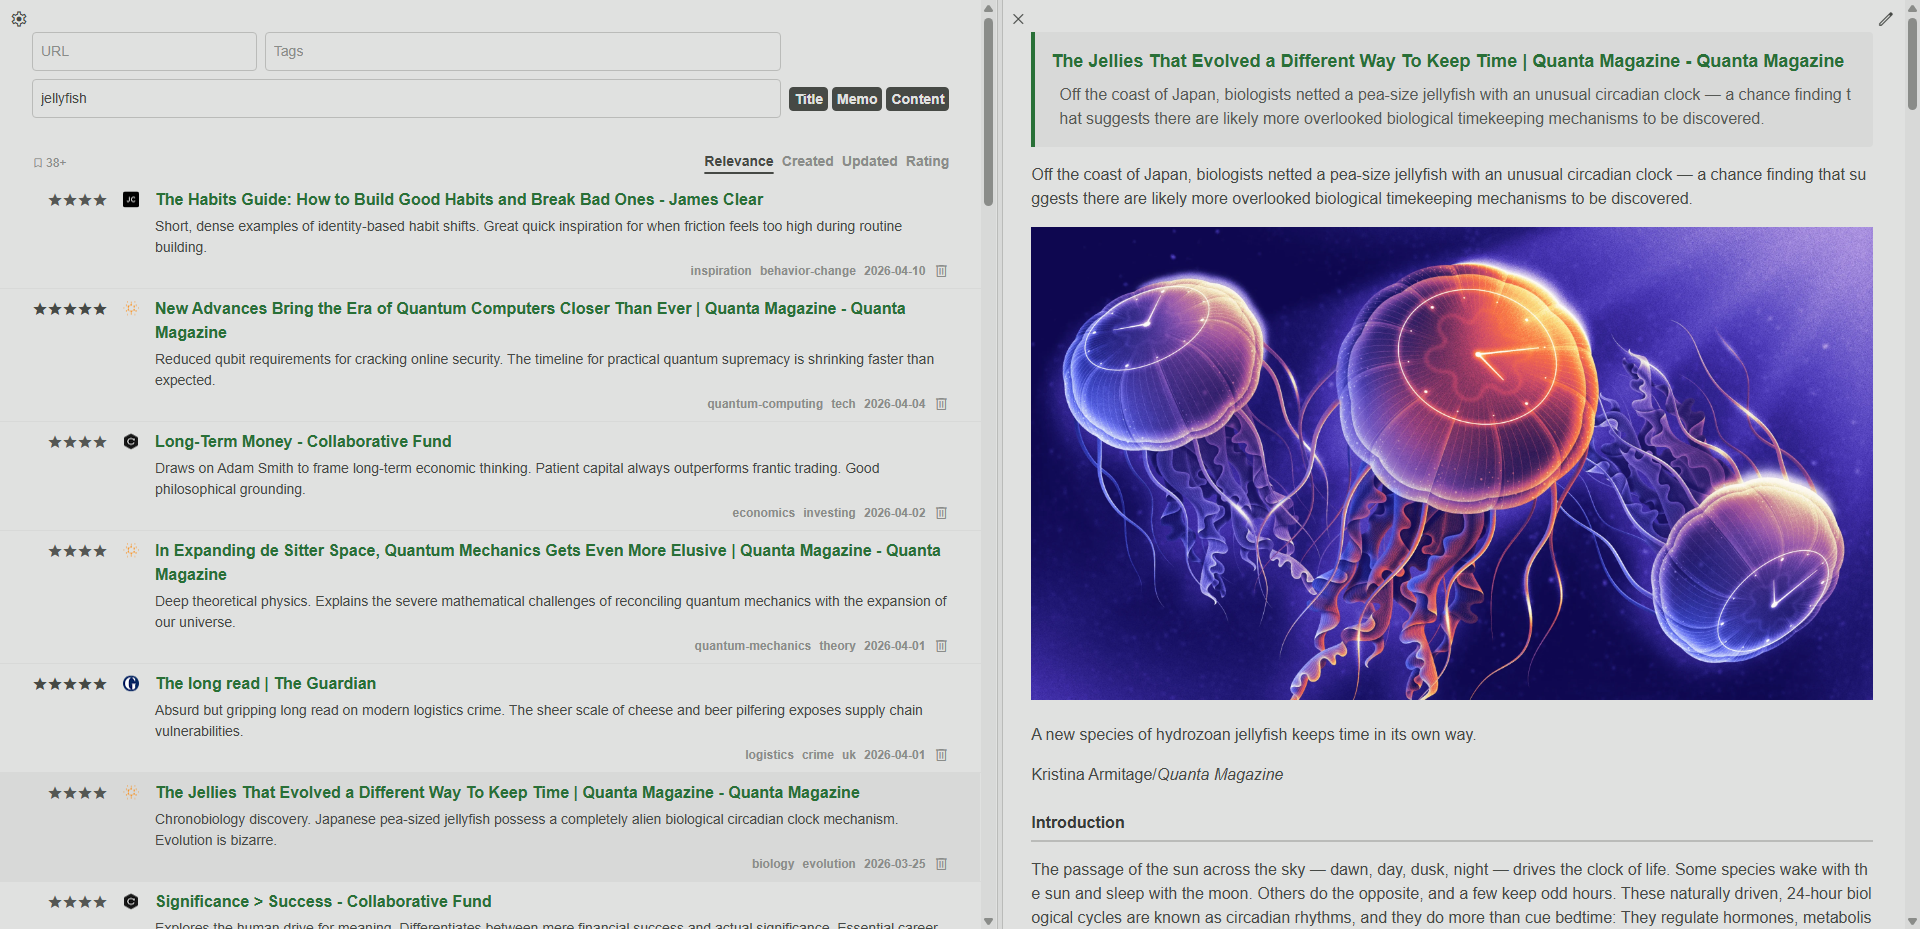
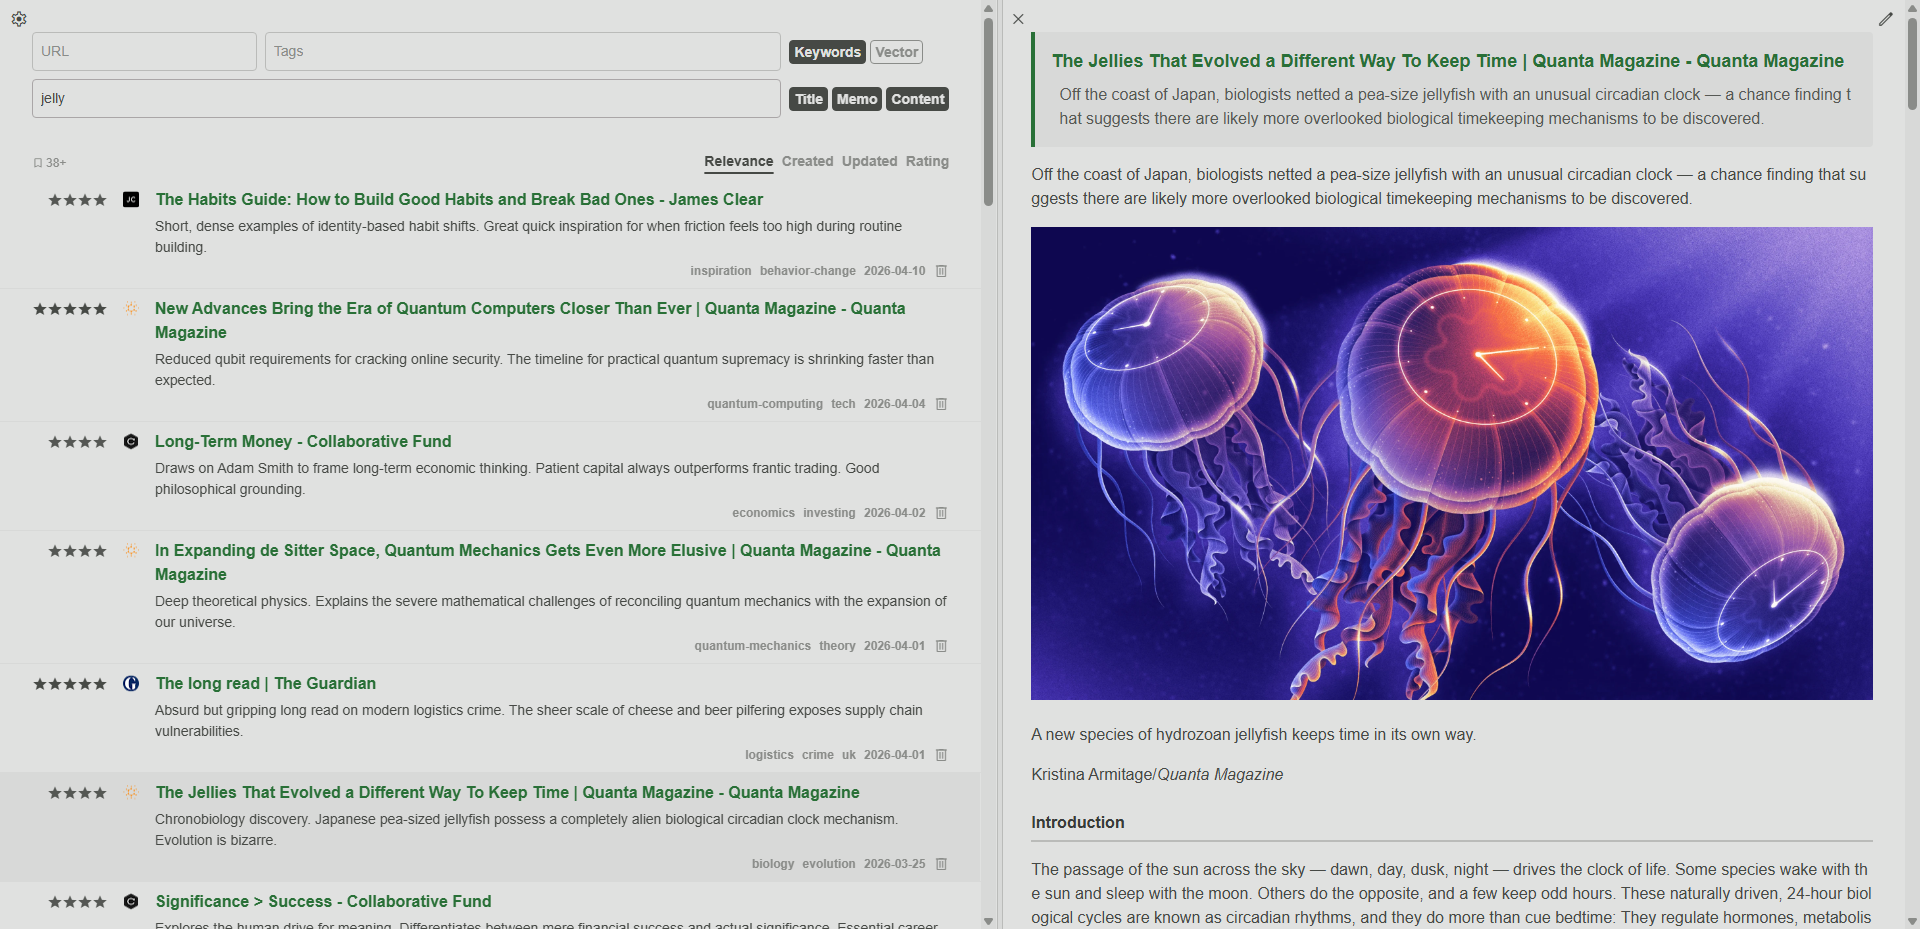
misc: 公開準備

diff --git a/tool/userjs/Auto_Save.user.js b/tool/userjs/Auto_Save.user.js
@@ -13,6 +13,7 @@
 // @grant        GM_getValue
 // @grant        GM_setValue
 // @grant        GM_registerMenuCommand
+// @grant        GM_notification
 //
 // @run-at       document-idle
 // ==/UserScript==
@@ -24,6 +25,7 @@
  * UserScript manager's settings (e.g., Tampermonkey > Settings > User matches).
  *
  * Example matches:
+ * https://*.wikipedia.org/wiki/*
  * https://zenn.dev/*
  * https://github.com/*
  * https://www.reddit.com/r/*
@@ -48,13 +50,18 @@ setTimeout(async () => {
 			return;
 
 		// Not bookmarked, proceed to save
-		await request('POST', '/api/save', {
+		const result = await request('POST', '/api/save', {
 			url,
 			title: document.title,
 			html: document.documentElement.outerHTML,
 		});
 
 		console.log('Nooklog: Page auto-saved', url);
+
+		GM_notification({
+			text: `Auto-saved: ${document.title}`,
+			title: 'Nooklog',
+		});
 	} catch (e) {
 		console.error('Nooklog: Auto-save failed', e);
 	}

diff --git a/test/nooklog.test.js b/test/nooklog.test.js
@@ -121,13 +121,14 @@ test('nooklog.js functional verification', async t => {
 	await t.test('Selective vector updates (pinpoint embedding)', async () => {
 		// Enable vector search and mock the embedding backend
 		env['sentence.vector.enabled'] = true;
-		await db.initializeVectorTable();
-		const originalRequest = sentence._request;
 
+		const originalRequest = sentence._request;
 		// Mock embedding to return a fixed vector
 		sentence._request = async input => (Array.isArray(input) ? input : [input]).map(() => new Array(768).fill(0));
 
 		try {
+			await db.initializeVectorTable();
+
 			const b = await nooklog.save({
 				url: 'https://test.com',
 				title: 'Original Title',

diff --git a/server/core/sentence/vector.js b/server/core/sentence/vector.js
@@ -12,11 +12,14 @@ const PRESET_MAP = {
 		documentTitlePrefix: 'title: ',
 		documentTextPrefix: 'text: ',
 	},
-	'arctic': {
-		queryPrefix: 'Represent this sentence for searching relevant passages: ',
-	},
 	'qwen3': {
 		queryPrefix: 'Instruct: Retrieve relevant documents for the given query\nQuery: ',
+	},
+	'harrier': {
+		queryPrefix: 'Instruct: Given a web search query, retrieve relevant passages that answer the query\nQuery: ',
+	},
+	'arctic': {
+		queryPrefix: 'Represent this sentence for searching relevant passages: ',
 	},
 	'multilingual-e5': {
 		queryPrefix: 'query: ',

diff --git a/.agent/skills/nooklog-maintenance/SKILL.md b/.agent/skills/nooklog-maintenance/SKILL.md
@@ -19,6 +19,7 @@ This skill provides guidelines for maintaining data integrity and safely executi
 - **Safety First (Backups)**: Before performing destructive operations (bulk transformations, deletions, etc.), always create a physical copy (backup) of the database files (e.g., `nooklog.db.bak`) to ensure a reliable rollback point.
 - **Fail Fast Principle**: Design maintenance scripts to log errors or terminate immediately upon encountering irregular data, rather than silently ignoring anomalies.
 - **Proper Resource Management**: Always call `nooklog.dispose()` at the end of a script to safely close database connections and release resources.
+- **Review Database Schema**: Check [📖 schema.md](../../../docs/schema.md) to familiarize yourself with the latest database definitions for smoother operations.
 
 ## Maintenance Architecture
 
